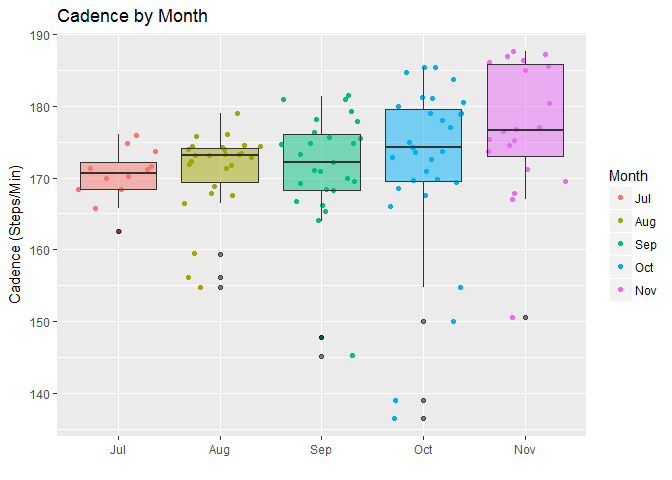
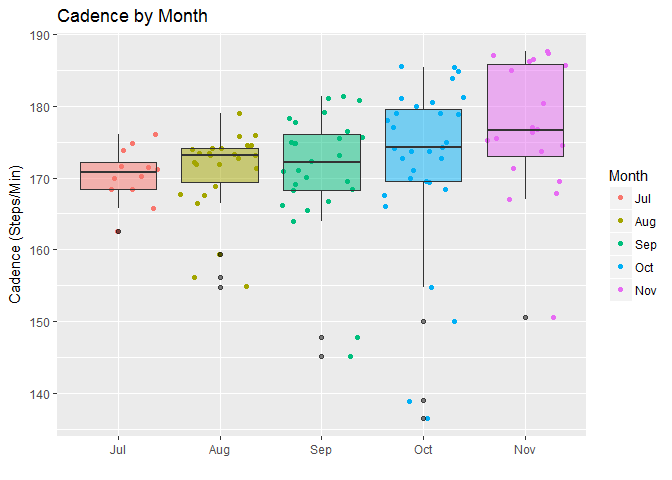
Clean up typos and graphs

diff --git a/docs/R_Analysis_git.md b/docs/R_Analysis_git.md
@@ -1,39 +1,62 @@
----
-title: "Marathon Training Plan Data Analysis"
-#author: "Steve Newns"
-#date: "February 24, 2017"
-output:
-  github_document: default
-  html_document: default
-  word_document: default
----
+Marathon Training Plan Data Analysis
+================
 
-# *Initial Data Inspection*
+*Initial Data Inspection*
+=========================
 
-First, I load in the CSV file created in the **R_Cleaning_Garmin_Strava** script file, which contains the combined dataset of runs from my Philadelphia Marathon training plan from both Strava and Garmin Connect. I then inspect the data to make sure I have all the correct data in the correct data types.
+First, I load in the CSV file created in the **R\_Cleaning\_Garmin\_Strava** script file, which contains the combined dataset of runs from my Philadelphia Marathon training plan from both Strava and Garmin Connect. I then inspect the data to make sure I have all the correct data in the correct data types.
 
-```{r load dataset, echo = FALSE}
-runs <- read.csv("cleanedMarathonTrainingData.csv")
-```
-
-```{r inspect, echo = FALSE}
+``` r
 str(runs)
 ```
 
+    ## 'data.frame':    116 obs. of  20 variables:
+    ##  $ X             : int  12 15 94 4 6 8 13 16 95 5 ...
+    ##  $ ID            : int  646029304 647216014 648410753 649445500 650512799 651933678 653912805 655096239 656203325 657259723 ...
+    ##  $ Name          : Factor w/ 13 levels "10k Tune Up Run",..: 2 7 10 3 10 4 3 7 10 7 ...
+    ##  $ Gear          : Factor w/ 4 levels "ASICS dunno Black, Yellow, Red",..: 2 2 1 2 1 2 2 2 1 2 ...
+    ##  $ Date          : Factor w/ 116 levels "2016-07-19","2016-07-20",..: 1 2 3 4 5 6 7 8 9 10 ...
+    ##  $ Month         : Factor w/ 5 levels "Aug","Jul","Nov",..: 2 2 2 2 2 2 2 2 2 2 ...
+    ##  $ monthNum      : int  7 7 7 7 7 7 7 7 7 7 ...
+    ##  $ DOW           : Factor w/ 7 levels "Fri","Mon","Sat",..: 6 7 5 1 3 4 6 7 5 1 ...
+    ##  $ StartTime     : Factor w/ 89 levels "10:01","10:09",..: 57 50 66 45 70 75 45 36 63 35 ...
+    ##  $ Distance      : num  9.01 11 4 11 6 ...
+    ##  $ Time          : Factor w/ 114 levels "2017-03-29 00:07:43",..: 50 69 14 74 31 103 59 87 6 83 ...
+    ##  $ Speed.mph     : num  3.72 3.54 3.29 3.49 3.33 ...
+    ##  $ Cad           : num  168 168 171 176 174 ...
+    ##  $ Elevation.Gain: int  351 461 NA 468 230 572 400 485 NA 477 ...
+    ##  $ Avg.HR        : int  149 150 139 150 131 154 150 146 134 149 ...
+    ##  $ Max.HR        : int  167 160 149 161 155 165 159 158 142 160 ...
+    ##  $ Calories      : int  943 1176 442 1170 721 1653 1090 1318 314 1241 ...
+    ##  $ RunType       : Factor w/ 5 levels "Long Run","Race",..: 5 4 3 4 3 1 4 4 3 4 ...
+    ##  $ weekNumber    : int  1 1 1 1 1 1 2 2 2 2 ...
+    ##  $ Avg.Pace      : Factor w/ 67 levels "2017-03-29 00:06:32",..: 13 32 57 38 55 39 33 41 48 49 ...
+
 Well, to start off, I have a column which seems to contain the row numbers from the CSv, so let's remove that before going back to the inspection.
 
-```{r remove 1st col, echo = FALSE}
-runs$X <- NULL
-head(runs,2)
-```
+    ##          ID           Name                   Gear       Date Month
+    ## 1 646029304 Classic LT Run Brooks Ghost Red/Black 2016-07-19   Jul
+    ## 2 647216014         ML Run Brooks Ghost Red/Black 2016-07-20   Jul
+    ##   monthNum DOW StartTime Distance                Time Speed.mph   Cad
+    ## 1        7 Tue      5:51     9.01 2017-03-29 01:04:59    3.7179 168.4
+    ## 2        7 Wed      5:36    11.00 2017-03-29 01:23:29    3.5350 168.4
+    ##   Elevation.Gain Avg.HR Max.HR Calories RunType weekNumber
+    ## 1            351    149    167      943 Workout          1
+    ## 2            461    150    160     1176     Run          1
+    ##              Avg.Pace
+    ## 1 2017-03-29 00:07:13
+    ## 2 2017-03-29 00:07:35
 
 Alright, cool. But it looks like my Date field, **Date**, total run time field, **Time**, and average pace (min/mile) field, **Avg.Pace**, are not in the POSIXct format needed. So let's put them back into the correct format the lubridate package.
 
-```{r lubridate, echo = FALSE}
-library(lubridate)
-```
-```{r fix POSIXct}
+    ## 
+    ## Attaching package: 'lubridate'
 
+    ## The following object is masked from 'package:base':
+    ## 
+    ##     date
+
+``` r
 runs$Time <- as.POSIXct(runs$Time)#, format = '%H:%M:%S')
 runs$Avg.Pace <- as.POSIXct(runs$Avg.Pace)#, format = '%H:%M:%S')
 runs$Date <- as.POSIXct(runs$Date)
@@ -42,240 +65,146 @@ runs$StartTime <- hour(strptime(runs$StartTime, format = '%H:%M'))
 str(runs)
 ```
 
+    ## 'data.frame':    116 obs. of  19 variables:
+    ##  $ ID            : int  646029304 647216014 648410753 649445500 650512799 651933678 653912805 655096239 656203325 657259723 ...
+    ##  $ Name          : Factor w/ 13 levels "10k Tune Up Run",..: 2 7 10 3 10 4 3 7 10 7 ...
+    ##  $ Gear          : Factor w/ 4 levels "ASICS dunno Black, Yellow, Red",..: 2 2 1 2 1 2 2 2 1 2 ...
+    ##  $ Date          : POSIXct, format: "2016-07-19" "2016-07-20" ...
+    ##  $ Month         : Factor w/ 5 levels "Aug","Jul","Nov",..: 2 2 2 2 2 2 2 2 2 2 ...
+    ##  $ monthNum      : int  7 7 7 7 7 7 7 7 7 7 ...
+    ##  $ DOW           : Factor w/ 7 levels "Fri","Mon","Sat",..: 6 7 5 1 3 4 6 7 5 1 ...
+    ##  $ StartTime     : int  5 5 6 5 7 8 5 5 6 5 ...
+    ##  $ Distance      : num  9.01 11 4 11 6 ...
+    ##  $ Time          : POSIXct, format: "2017-03-29 01:04:59" "2017-03-29 01:23:29" ...
+    ##  $ Speed.mph     : num  3.72 3.54 3.29 3.49 3.33 ...
+    ##  $ Cad           : num  168 168 171 176 174 ...
+    ##  $ Elevation.Gain: int  351 461 NA 468 230 572 400 485 NA 477 ...
+    ##  $ Avg.HR        : int  149 150 139 150 131 154 150 146 134 149 ...
+    ##  $ Max.HR        : int  167 160 149 161 155 165 159 158 142 160 ...
+    ##  $ Calories      : int  943 1176 442 1170 721 1653 1090 1318 314 1241 ...
+    ##  $ RunType       : Factor w/ 5 levels "Long Run","Race",..: 5 4 3 4 3 1 4 4 3 4 ...
+    ##  $ weekNumber    : int  1 1 1 1 1 1 2 2 2 2 ...
+    ##  $ Avg.Pace      : POSIXct, format: "2017-03-29 00:07:13" "2017-03-29 00:07:35" ...
+
 Looks like **Month** was also not loaded as on *ordered* factor like I need it. As it is now, if I used it in my graphs, it would be ordereded alphabetically, not chronologically like I need it. So let's convert it back to an ordered factor with the correctly-specified ordering via the **levels** argument.
 
-```{r fix month}
+``` r
 runs$Month <- factor(runs$Month, ordered = TRUE, levels = c("Jul","Aug","Sep","Oct","Nov"))
 ```
 
-Now its time to acually make some plots. 
+Now its time to acually make some plots.
 
-# *Analysis* 
+*Analysis*
+==========
 
 I'll start off with a simple histogram of how many miles I ran in each of my runs.
 
-```{r plotting, echo = FALSE}
-library(ggplot2)
-library(RColorBrewer)
-
-#distance histogram
-ggplot(data = runs, aes(x = Distance)) + 
-  geom_histogram(binwidth = 2, aes(fill = ..count..), colour = "black", boundary = 2) +
-  scale_x_continuous(limits=c(0, 30)) +
-  xlab("Distance (mi)") + 
-  ylab("Frequency") + 
-  ggtitle("Distribution of Miles Ran in All Runs") + 
-  guides(fill=FALSE) 
-
-```
+![](R_Analysis_git_files/figure-markdown_github/plotting-1.png)
 
 It looks like the majority of my runs (20 of 'em) were between 10 and 12 miles, with the next highest frequency being from 4 to 6 miles, which were mostly recovery runs, showing that there was indeed a lot decent amount of time for recovery in this plan. We can also see my one 24 mile run all the way to the right, my longest Long Run of the plan. So this distribution is right/positively-skewed, with the majority of the runs being, looking at this plot, less than 12 miles. Let's look at the summary of this data.
 
-```{r distance summary}
+``` r
 summary(runs$Distance)
 ```
 
+    ##    Min. 1st Qu.  Median    Mean 3rd Qu.    Max. 
+    ##   1.000   6.000  10.000   9.907  13.000  26.270
+
 So, since we have a skewed distribution, we want to look at median as our measure of center. We can see the median number of miles I ran in a run is 10 miles, which is less than half of an actual marathon (mean is also basically 10, as well, just to note). So the majority of my runs seem pretty short, compared to the goal distance. This is because the point of a training plan is to get the body to adapt to a high volume of miles, but then to spread it over a period of time so that we can recover properly. We can also see the max distance here is the actual marathon. Now let's look at the total number of miles ran each month, with a pretty obvious expectation to see the total rise month-by-month.
 
-```{r miles by month, echo = FALSE} 
-#miles by month bars
-ggplot(data = runs, aes(x = Month, y = Distance, fill = Month)) + 
-  geom_bar(stat="identity") +
-  xlab("") + 
-  ylab("Total Miles") + 
-  guides(fill=FALSE) +
-  ggtitle("Total Miles by Month")
-```
+![](R_Analysis_git_files/figure-markdown_github/miles%20by%20month-1.png)
 
 The largest number of miles ran, 308 miles, was in September, and then we see a *ever-so-slight* drop to 304 miles in October. This could be possibly so if my peak mileage week was in September. We then see a large drop from October to November, which was expected due tapering up the race and the fact that the race was on November 20th, so there's no more run data after that date.
 
-```{r peak week, echo = FALSE}
-ggplot(data = runs, aes(x = weekNumber, y = Distance, fill = Month)) + 
-  geom_bar(stat="identity") +
-  xlab("Week of Plan") + 
-  ylab("Total Miles") + 
-  #guides(fill=FALSE) +
-  ggtitle("Total Miles by Week of Plan")
-```
+![](R_Analysis_git_files/figure-markdown_github/peak%20week-1.png)
 
 Welp, I was half wrong about that I guess. It seems peak week, week 11, was actually both in September *and* October.
 
-```{r peak wk, echo = FALSE}
-runs[runs$weekNumber == 11,c('Name','weekNumber','Date','DOW','Distance')]
-```
+    ##                Name weekNumber       Date DOW Distance
+    ## 61     Recovery Run         11 2016-09-26 Mon     4.00
+    ## 62           GA Run         11 2016-09-27 Tue    11.01
+    ## 63 LT Intervals Run         11 2016-09-28 Wed    12.01
+    ## 64     Recovery Run         11 2016-09-29 Thu     5.00
+    ## 65           ML Run         11 2016-09-30 Fri    15.01
+    ## 66           GA Run         11 2016-10-01 Sat    10.00
+    ## 67         Long Run         11 2016-10-02 Sun    24.00
 
 So the final 2 runs of peak week coincided with the start of October, with the longest run of the plan, 24 miles, taking place in this week.
 
 Another important metric for runners is their **cadence**, which is the number of steps taken per minute. The general consensus for a good cadence to run efficiently seems to be anywhere from 160 to 180 steps per minute, with more advanced and elite runners leaning towards the higher end.
 
-```{r cadence by month, echo = FALSE} 
-#avg. cadence grouped by month
-ggplot(data = runs, aes(Month, Cad)) + 
-  geom_jitter(aes(colour = Month)) +
-  geom_boxplot(aes(fill = Month), 
-               outlier.colour = "black", alpha = 0.5) + #geom_jitter()
-  xlab("") + 
-  ylab("Cadence (Steps/Min)") + 
-  guides(fill=FALSE) +
-  ggtitle("Cadence by Month") 
-```
+![](R_Analysis_git_files/figure-markdown_github/cadence%20by%20month-1.png)
 
 So, I can see that my cadence tended to generally increases month over month, albeit *barely*, and ended up averagin between 170 and 180, barring those outliers. I would assume the outliers were mainly recovery runs, as I was mainly concerned with keeping my heart rate down so I could actually recover on them than I was with making sure my cadence was optimal. I could investigate to see if this was due to having more speed workouts as the plan progressed, in which I would assume my cadence was typically higher), or could it have been due to improved form from an ever-increasing volume.
 
 Another metric would be my **average heart rate** during runs over the course of the training. Compared to the rise of my cadence, I would expect that my average heart rate would have decreased over time, as my fitness would have increased due to higher mileage and an increasing number of workouts.
 
-```{r heart rate over time, echo = FALSE}
-ggplot(data = runs, aes(x = Date, y = Avg.HR)) + 
-  geom_line(aes(group=1)) +
-  theme(axis.text.x = element_blank()) +
-  xlab("Time") + 
-  ylab("Average Heart Rate") + 
-  ggtitle("Average Heart Rate Over Time")
-```
+![](R_Analysis_git_files/figure-markdown_github/heart%20rate%20over%20time-1.png)
 
 So, it looks like my average heart rate decreased over time, barring two random extreme drops (shout-out again to my heart rate monitor). Let's check it out by month.
 
-
-```{r HR by month boxplot, echo = FALSE}
-#avg. HR grouped by month
-
-ggplot(data = runs, aes(Month, Avg.HR)) + 
-  geom_jitter(aes(colour = Month)) +
-  geom_boxplot(aes(fill = Month), 
-               outlier.colour = "black", alpha = 0.5) + #geom_jitter()
-  xlab("Month") + 
-  ylab("Avg. Heart Rate") + 
-  ggtitle("Average Heart Rate per Month") 
-```
+![](R_Analysis_git_files/figure-markdown_github/HR%20by%20month%20boxplot-1.png)
 
 So we can see that my hear rate had generally decreased month over month, albeit *barely*. *Again*. Now while I would hope it was due to increased fitness (and I still believe that to be the case, just by how I felt during my runs), the drops in temperature as we moved from summer to fall also may have played a part. Since it would have been cooler out, the body would not have been working as hard to cool itself down during my runs, so my heart rate would not have been as high. Maybe finding the historical temperature data and bringing it in could bring some insights into this question.
 
 Now let's look at cadence and heart rate by Run Type as well for comparisons.
 
-```{r cadence by run type, echo = FALSE} 
-#avg. cadence grouped by month
-ggplot(data = runs, aes(RunType, Cad)) + 
-  geom_jitter(aes(colour = RunType)) +
-  geom_boxplot(aes(fill = RunType), 
-               outlier.colour = "black", alpha = 0.5) +
-  scale_colour_brewer(palette = "Set1") +
-  scale_fill_brewer(palette = "Set1") +
-  xlab("Run Type") + 
-  ylab("Cadence") + 
-  guides(fill=FALSE) +
-  coord_flip() + 
-  ggtitle("Cadence per Run Type") 
+![](R_Analysis_git_files/figure-markdown_github/cadence%20by%20run%20type-1.png)
 
-```
-
-We can ignore the **Race** run type, since it's only one race. But we can still see that it was either my maximum cadence, or the second or third highest after those 2 quickest workout cadences. We can also see that my recovery runs had the least variability, and recovery runs, as well as normal runs, were in the lower 170's. I also expected my workouts to have the highest cadence, but it has the lowest median and the widest variety. I can only assume that this was due to recovery sections of interval runs, or warm-ups and cooldowns during tempo runs which were *much* slower and relaxed than even recovery runs. 
+We can ignore the **Race** run type, since it's only one race. But we can still see that it was either my maximum cadence, or the second or third highest after those 2 quickest workout cadences. We can also see that my recovery runs had the least variability, and recovery runs, as well as normal runs, were in the lower 170's. I also expected my workouts to have the highest cadence, but it has the lowest median and the widest variety. I can only assume that this was due to recovery sections of interval runs, or warm-ups and cooldowns during tempo runs which were *much* slower and relaxed than even recovery runs.
 
 Now let's see if cadence and heart rate seem to have anything to do with each other.
 
-```{r cadence by hr, echo = FALSE, messages = FALSE}
-ggplot(data = runs, aes(x=Cad, y=Avg.HR)) + 
-  geom_point(aes(colour = RunType), na.rm = TRUE) +
-  xlab("Cadence") + 
-  ylab("Average Heart Rate") + 
-  scale_y_continuous(limits = c(110, 160)) +
-  ggtitle("Average Heart Rate by Cadence")
-```
+![](R_Analysis_git_files/figure-markdown_github/cadence%20by%20hr-1.png)
 
 By looking at average heart rate by average cadence, we can see that there is no relationship at all here. I honestly expected heart rate to increase a bit as cadence increased, which it does sharply for Recovery Runs, but it actually looks to decrease as cadence increased during Normal Runs, and a bit as well during Workouts. Maybe I was more efficient in my running form than I thought during these runs. Now let's look at heart rate by runs types to see if there's some effect there.
 
-```{r heart rate by run type, echo = FALSE}
-#avg. cadence grouped by month
-ggplot(data = runs, aes(RunType, Avg.HR)) + 
-  geom_jitter(aes(colour = RunType)) +
-  geom_boxplot(aes(fill = RunType), 
-               outlier.colour = "black", alpha = 0.5) +
-  xlab("Run Type") + 
-  ylab("Avg Heart Rate") + 
-  guides(fill=FALSE) +
-  ggtitle("Average Heart Rate per Run Type") 
-```
+![](R_Analysis_git_files/figure-markdown_github/heart%20rate%20by%20run%20type-1.png)
 
 As expected, my heart rate was lowest during recovery runs, but it was also quite varied. We can also see that there were 2 runs wherein my heart rate monitor was off, since my average heart rate was around 70. Also, my average heart rate was not very variable for the other 3 types of runs, excluding the race. This is good, since it means I was able to be consistent in my efforts, depending on the type of scheduled run. My Long Runs also tended to have a lower average heart rate than my "normal" runs, which I personally did not expect. But this does a make a little sense, since I was supposed to run at a bit of a slower pace so that I could run longer without bonking. Also, I did expect my heart rate to be higher during workouts, since they were designed to to push my heart rate to the max during **V02 intervals**, and was supposed to be elevated during those "comfortably hard" **tempo runs**. I can also see that there was one single workout wherein it was higher than my average heart rate during the marathon.
 
-```{r max heart rate, echo = FALSE}
-runs[which.max(runs$Avg.HR),]
-```
+    ##           ID        Name                      Gear       Date Month
+    ## 73 738343078 Tune-Up Run Hoka One One Clifton Reds 2016-10-08   Oct
+    ##    monthNum DOW StartTime Distance                Time Speed.mph Cad
+    ## 73       10 Sat        10     9.33 2017-03-29 01:00:53    4.1107 139
+    ##    Elevation.Gain Avg.HR Max.HR Calories RunType weekNumber
+    ## 73            257    157    169      939 Workout         12
+    ##               Avg.Pace
+    ## 73 2017-03-29 00:06:32
 
-So we can see that my max heart rate was during my 10k Tune-up Race, which does not surprise me since it . 
+So we can see that my max heart rate was during my 10k Tune-up Race, which does not surprise me since it .
 
-Let's now check out my average pace over time, split out by Run Type. I would hope that it would have decreased, just as average heart rate did, due to both increased form and increased fitness, as well as possibly due to decreased outside temperatures making it easier to run faster. 
+Let's now check out my average pace over time, split out by Run Type. I would hope that it would have decreased, just as average heart rate did, due to both increased form and increased fitness, as well as possibly due to decreased outside temperatures making it easier to run faster.
 
-```{r avg pace by runs, echo = FALSE, message=FALSE}
-pl <- ggplot(data = runs, aes(x = Date, y = Avg.Pace, colour = RunType)) + 
-  geom_point() +
-  geom_smooth(fill = NA) +  
-  theme(axis.text.x = element_blank()) +
-  theme(axis.text.y = element_blank()) +
-  xlab("Date") + 
-  ylab("Average Pace (mile/minute)") + 
-  ggtitle("Average Pace Over Time") + 
-  labs(caption="")
-print(pl)
-```
+![](R_Analysis_git_files/figure-markdown_github/avg%20pace%20by%20runs-1.png)
 
 So we see a very slight general decrease overall, but it's not very linear at all, so it does not seem to be that significant. Let's split these into seperate scatter plots by run type.
 
-```{r avg pace by runs - seperate, echo = FALSE, message=FALSE}
-ggplot(data = runs, aes(x = Date, y = Avg.Pace, colour = RunType)) + 
-  geom_point() +
-  geom_smooth(fill = NA) +  
-  theme(axis.text.x = element_blank()) +
-  theme(axis.text.y = element_blank()) +
-  xlab("Date") + 
-  ylab("Average Pace (mile/minute)") + 
-  ggtitle("Average Pace Over Time") + 
-  labs(caption="") + 
-  facet_grid(RunType~.)
-```
+![](R_Analysis_git_files/figure-markdown_github/avg%20pace%20by%20runs%20-%20seperate-1.png)
 
 And, we see that workouts had the lowest average pace, which seemed to actually decrease a tad until about halfway through the plan, but there was a variety of different workouts with different focuses, so this really isn't something we can glean anything out of. Long Runs start to decrease in average pace, possibly due to an increase in outside temperature from July to August causing me to slow down, but then we see a rapid increase, which start sto taper off at the end there. Normal runs seemed to have a more gradual increase over time, but it sped up a bit compared to at the start. Then we see that recovery runs increased down even more so compared to Long Runs, but also had a drop as temperatures cooled (or fitness increased, either or. Maybe both). There was then a quick uptick at the end there, which I would assume would be due to slowing down even more as I tapered for the race, with the 2 slowest recovery runs happening just before the race. We then see the race there, at about 7:10 min/mile, which, while I am happy with my results, I would *love* to get this down under 7:00 min/mile in my next marathon, Philly 2017, with the goal of running about 6:50 min/mile so as to break 3 hours!
 
-```{r bar of steps, echo = FALSE}
-table(runs$RunType)
+    ## 
+    ##     Long Run         Race Recovery Run          Run      Workout 
+    ##           13            1           40           46           16
 
-#apply(runs$Cadence, runs$RunType, function(x) (Cad*(hour(runs$Time)*60)+(minute(runs$Time))+(second(runs$Time)/60)))
-
-ggplot(data = runs, aes(RunType, (Cad*((hour(runs$Time)*60)+(minute(runs$Time))+(second(runs$Time)/60))))) + 
-  geom_bar(aes(fill = RunType), stat = "identity") +
-  xlab("Run Type") + 
-  ylab("Steps") + 
-  guides(fill=FALSE) +
-  ggtitle("Total Steps Taken by Run Type") 
-```
+![](R_Analysis_git_files/figure-markdown_github/bar%20of%20steps-1.png)
 
 Here we see the majority of runs I had were normal runs, with just a bit less recovery runs. But then in the bar chart, we can see that even though I only just over one quarter of the amount of long runs compared to the amount of recovery runs, the sum of steps taken during my long runs was greater than the sum of steps taken in all of my recovery runs. This makes sense, due to how much longer my long runs were, both in distance and in duration. We also see that steps taken during workouts was quite high compared to steps taken during recovery runs, despite having being just under a third of the amount of recovery runs.
 
 Let's see if my elevation gain had any affect on my average heart rate. I expect that it would, since a larger eleveation gain meant I was climbing more, which requires more exertion, so I expect my average heart rate to be higher with a higher elevation gain.
 
-```{r elevation and avg hr, echo = FALSE, message=FALSE}
-ggplot(data = runs, aes(x=Elevation.Gain, y=Avg.HR)) + 
-  geom_point(aes(colour = RunType), na.rm = TRUE) +
-  geom_smooth(fill = NA, na.rm = TRUE) +
-  xlab("Elevation Gain (ft.)") + 
-  ylab("Average Heart Rate (BPM)") +
-  scale_y_continuous(limits = c(110, 160)) +
-  ggtitle("Average Heart Rate by Elevation Gain")
-```
+![](R_Analysis_git_files/figure-markdown_github/elevation%20and%20avg%20hr-1.png)
 
 So it looks like there was a very slight increase in average heart rate as elevation gain increased. And while the increase was not that large in magnitude, it seemed to be quite consistent for the majority of the x-axis. So this went in line with my expectation a bit. Let's see the max heart rate by elevation gain.
 
-```{r elevation and max hr, echo = FALSE}
-ggplot(data = runs, aes(x=RunType, y=Max.HR)) + 
-  geom_jitter(aes(colour = RunType)) +
-  geom_boxplot(aes(fill = RunType), outlier.colour = "black", alpha = 0.5) +
-  xlab("Run Type") + 
-  ylab("Max Heart Rate (BPM)") + 
-  ggtitle("Max Heart Rate by Run Type")
-```
+![](R_Analysis_git_files/figure-markdown_github/elevation%20and%20max%20hr-1.png)
 
-It's interesting to note that each run type has a very low variability in maximum heart rate with the exception of recovery runs. We see a good number of outliers for normal runs. There are also numerous maximum heart rates  that are up to about 200, which was due to an inaccurate heart rate monitor, since the only chance I had of reaching that heart rate would have been when I was pushing myself to max exertion, which would have only occured during a workout, or during the race. But since this was a marathon, and not a 5K, I will assume it was another heart rate monitor inaccuracy, which is something we just can't always prevent.
+It's interesting to note that each run type has a very low variability in maximum heart rate with the exception of recovery runs. We see a good number of outliers for normal runs. There are also numerous maximum heart rates that are up to about 200, which was due to an inaccurate heart rate monitor, since the only chance I had of reaching that heart rate would have been when I was pushing myself to max exertion, which would have only occured during a workout, or during the race. But since this was a marathon, and not a 5K, I will assume it was another heart rate monitor inaccuracy, which is something we just can't always prevent.
 
-# Conclusion
+Conclusion
+==========
+
 That's all I can think of to check out so far. If you're reading this and can think of anything else, let me know in [LinkedIn!](https://www.linkedin.com/in/stephen-newns). I can't wait to add to this dataset with my training runs for Philly 2017, with the hopes of breaking 3 hours!
 
-The code for this can be found [here], as well as the code for the [cleaning and initial creation of the dataset]
+The code for this can be found \[here\], as well as the code for the \[cleaning and initial creation of the dataset\]
